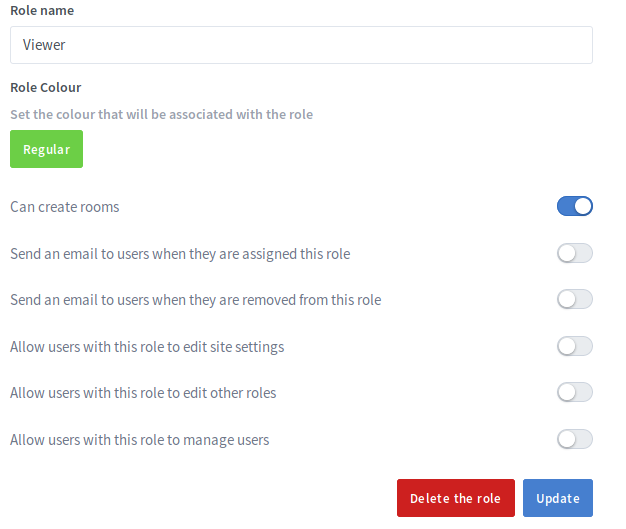
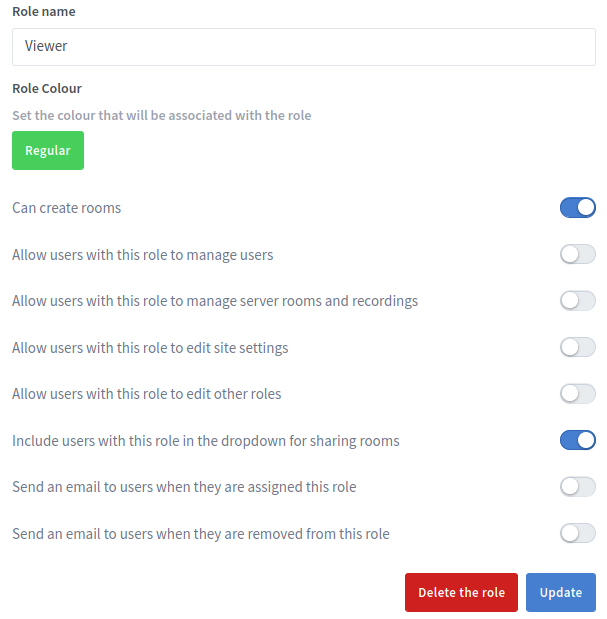
Greenlight v2.5 (#122)
* Greenlight v2.5

* Changed postgres change instructions

* Update docker-compose change instructions

* Updated install instructions

* Fixed psql url

* Updated role permissions

diff --git a/_posts/2019-04-15-gl-admin.md b/_posts/2019-04-15-gl-admin.md
@@ -102,6 +102,18 @@ Once an account gets banned, the user will be moved to the **Banned** tab.
 
 This will remove the account from Greenlight and will also prevent the user from signing up using the same email to Greenlight in the future.
 
+### Merging User Accounts
+
+In the case where 2 accounts need to be merged, there is a Merge action in the Account Dropdown. When merging 2 accounts together, there is a **Account to be Merged** and a **Primary Account**.
+
+During the merge process, the **Account to be Merged**'s rooms will be transferred to the **Primary Account**. Once the transfer is complete, the **Account to be Merged** will be permanently deleted. No other data is transferred to the **Primary Account**.
+
+To merge a user, click the Merge action in the Account Dropdown for the user that will be the **Primary Account**. Once the modal appears, you can use the dropdown to search for the **Account to be Merged**. Note that you can search by name or email in the dropdown. 
+
+![Greenlight Administrator Merge](/images/greenlight/admin_merge.png)
+
+In the above example, if Example3 had 2 rooms, "Home Room" and "Room 1", they will appear in Example4's room list as "(Merged) Home Room" and "(Merged) Room 1". Example4 is free to rename, delete or make any changes to these rooms.
+
 ### Editing Accounts
 
 To edit an account, select Edit for the specified user. This will open the edit user view.
@@ -125,6 +137,35 @@ From the edit user view, Administrators are able to assign and remove roles for 
 If the user has forgotten their password, the Administrator can send them an email that they can use to reset their password. 
 
 To reset a user's password, select Edit for the specified user. This will open the edit user view. From there, the Administrator just needs to click the `Reset user password` button and an email will be sent out to the user with the required instructions.
+
+## Server Rooms
+
+Through the Server Rooms tab, Administrators are able to view all of the Greenlight rooms that have been created.
+
+![Greenlight Administrator Server Rooms](/images/greenlight/admin_server_rooms.png)
+
+### Options
+
+As an administrator, there are a variety of options available to you with regards to interacting with a user's room. You can view all options by clicking the Room Dropdown. 
+
+| Tab               | Description |
+|:-----------------------|:------------|
+| View | Allows the administrator to join the room in the same way that anyother user joins the room. |
+| Start | Allows the administrator to manually start and join the room, even if it is not already running. |
+| Room Settings | Allows the administrator to make changes to the room settings. |
+| Delete | Allows the administrator to manually delete an unwanted room. **Home Rooms can not be deleted** |
+
+![Greenlight Administrator Server Rooms Options](/images/greenlight/admin_server_rooms_options.png)
+
+### Search
+
+The search box can be used to filter based on the **Name**, **Owner**, or **Id** of any room.
+
+### Sort 
+
+It is possible to sort rooms by metrics such as **Name**, **Owner**, or **Id**.
+
+This can be done by clicking on the headers of the table (cycles through ascending, descending, and no particular order):
 
 ## Server Recordings
 
@@ -225,6 +266,14 @@ By default, users that are not signed in can join any Room that has been started
 
 ![Greenlight Administrator Room Authentication](/images/greenlight/admin_room_auth.png)
 
+### Allow Users to Share Rooms
+
+By default, all users that are able to create rooms are able to share rooms. Shared rooms can be entirely disabled by setting this setting to **Disabled**.
+
+In the Shared Access modal, users can share the room with another user by searching for that user's name or uid. If you do not want a specific role to be searchable in this dropdown, you can hide them from the list in the [Roles Permissions](#editing-an-existing-role).
+
+![Greenlight Administrator Share Access](/images/greenlight/admin_share_access.png)
+
 ### Recording Default Visibility
 
 Sets the default visibility of room recordings. 
@@ -278,13 +327,14 @@ Administrators are also able to update the permissions for the role. The followi
 
 | Permission               | Description |
 |:-----------------------|:------------|
-| Can create rooms                                           | This determines whether or not users with this role are able to create their own Greenlight rooms. |
-| Send an email to users when they are assigned this role     | This determines whether or not to send an email to users when they are promoted to this role |
-| Send an email to users when they are removed from this role | This determines whether or not to send an email to users when they are removed from this role |
-| Allow users with this role to edit site settings           | This allows users to access the Server Recordings and Site Settings tabs as if they were administrators |
-| Allow users with this role to edit other roles             | This allows users to access the Roles tab as if they were administrators |
-| Allow users with this role to manage other users           | This allows users to access the Manage Users tab as if they were administrators |
-
+| Can create rooms                                                | This determines whether or not users with this role are able to create their own Greenlight rooms. |
+| Allow users with this role to manage other users                | This allows users to access the Manage Users tab as if they were administrators |
+| Allow users with this role to view server rooms and recordings  | This allows users to access the Site Setting tabs as if they were administrators |
+| Allow users with this role to edit site settings                | This allows users to access the Site Setting tabs as if they were administrators |
+| Allow users with this role to edit other roles                  | This allows users to access the Roles tab as if they were administrators |
+| Include users with this role in the dropdown for sharing rooms  | This includes the user in the dropdown for sharing rooms |
+| Send an email to users when they are assigned this role         | This determines whether or not to send an email to users when they are promoted to this role |
+| Send an email to users when they are removed from this role     | This determines whether or not to send an email to users when they are removed from this role |
 
 **Note:** Administrators are unable to change the name for the user role or any of the permissions associated with the Admin role. Administrators are also only able to edit the permissions for roles with a lower priority than their own role.
 

diff --git a/_posts/2019-04-15-gl-config.md b/_posts/2019-04-15-gl-config.md
@@ -27,6 +27,144 @@ If you are **not** deploying Greenlight on a BigBlueButton server and want the a
 
 You can now setup branding for Greenlight through its [Administrator Interface](gl-admin.html#site-branding). 
 
+## Use PostgreSQL instead of SQLite
+
+Greenlight can be set to use either a local in-memory SQLite database or a production-ready PostgreSQL database.
+
+For any new installs, Greenlight is configured to use PostgreSQL by default.
+
+If you installed Greenlight before v2.5 was released, your deployment is configured to use SQLite by default. If you are using SQLite, we highly recommend that you make the change to PostgreSQL.
+
+### Converting SQLite database to PostgreSQL without losing data
+
+It is possible to convert an existing SQLite database to PostgreSQL without losing any of your data.
+
+You'll need to generate a random password that will be used in 3 different instances. Generate one by running
+```bash
+openssl rand -hex 8
+```
+For the remainder of these instructions, replace **RANDOM_PASSWORD_REPLACE_ME** with the password that was generated with the command from above
+
+First, ensure you are in your Greenlight directory and that Greenlight is not running
+```bash
+cd ~/greenlight
+docker-compose down
+```
+
+Second, replace your `docker-compose.yml` with the new `docker-compose.yml` to include the PostgreSQL container 
+```bash
+docker run --rm bigbluebutton/greenlight:v2 cat ./docker-compose.yml > docker-compose.yml
+```
+
+Next, edit your `docker-compose.yml` to include your SQLite container (You can use vi, vim, nano or any text editor)
+```bash
+vim docker-compose.yml
+```
+
+There are 3 lines that need to be changed. When making the changes, make sure the spacing remains consistent.
+
+- The first change is removing the `#` before 
+```yaml
+#      - ./db/production:/usr/src/app/db/production
+```
+
+- The second change is replacing
+
+  ```yaml
+    - ./db/production:/var/lib/postgresql/data
+  ```
+
+  With
+
+  ```yaml
+    - ./db/production-postgres:/var/lib/postgresql/data
+  ```
+
+- The third change is replacing **RANDOM_PASSWORD_REPLACE_ME** with the password you generated in the earlier step
+
+
+**NOTE:** If you cloned the repository and are building your own image, make sure you also make the change to point to your image instead of the default one. If you are installed using the basic **Install** instructions, you can skip this step.
+```
+services:
+  app:
+    entrypoint: [bin/start]
+    image: <image name>:release-v2
+```
+
+The next step is configuring the `.env` file so that it connects to the PostgreSQL database. Edit your `.env` file
+```bash
+vim .env
+```
+and add the following lines to any part of the `.env` file (Making sure to replace the **RANDOM_PASSWORD_REPLACE_ME**)
+```
+DB_ADAPTER=postgresql
+DB_HOST=db
+DB_NAME=greenlight_production
+DB_USERNAME=postgres
+DB_PASSWORD=RANDOM_PASSWORD_REPLACE_ME
+```
+Next, test your current configuration by running
+```bash
+docker-compose up -d
+```
+If you see the following error, it is due to the spacing of your `docker-compose.yml` file. For reference, the spacing should look like [this](https://github.com/bigbluebutton/greenlight/blob/master/docker-compose.yml#L22) 
+```bash
+ERROR: yaml.parser.ParserError: while parsing a block mapping
+  in "./docker-compose.yml", line 4, column 3
+expected <block end>, but found '<block mapping start>'
+  in "./docker-compose.yml", line 23, column 4
+```
+If no errors appear, continue to the next step.
+Once the containers have spun up, we need to create a new database in PostgreSQL to store our data in  (Making sure to replace the **RANDOM_PASSWORD_REPLACE_ME**)
+``` bash
+docker exec greenlight-v2 psql "postgresql://postgres:RANDOM_PASSWORD_REPLACE_ME@db:5432" -c 'CREATE DATABASE greenlight_production_new'
+```
+Assuming that worked successfully, the console should output:
+```
+CREATE DATABASE
+```
+Finally, copy the SQLite database and convert it to a PostgreSQL database. (Making sure to replace the **RANDOM_PASSWORD_REPLACE_ME**)
+```bash
+docker exec greenlight-v2 bundle exec sequel -C sqlite:///usr/src/app/db/production/production.sqlite3 postgres://postgres:RANDOM_PASSWORD_REPLACE_ME@db:5432/greenlight_production_new
+```
+Assuming that worked successfully, the console should output:
+```
+Databases connections successful
+Migrations dumped successfully
+Tables created
+Begin copying data
+.
+.
+.
+Database copy finished in 2.741942643 seconds
+```
+
+Finally, edit your `.env` file to point at the new database by replacing the line that we added in the earlier step
+```
+DB_NAME=greenlight_production
+```
+With:
+```
+DB_NAME=greenlight_production_new
+```
+
+Now, [restart Greenlight](#applying-env-changes) and you should be good to go.
+
+You can verify that everything went smoothly if you are able to sign into the accounts you had made before starting this process.
+
+### Errors after migration
+
+If you encounter any errors after the migration, you can very easily switch back to your previous setup by removing the `.env` variables that were added during this switch. 
+
+Just remove these lines and restart Greenlight
+
+```
+DB_ADAPTER=postgresql
+DB_HOST=db
+DB_NAME=greenlight_production
+DB_USERNAME=postgres
+DB_PASSWORD=RANDOM_PASSWORD_REPLACE_ME
+```
 
 ## User Authentication
 

diff --git a/_posts/2019-04-15-gl-overview.md b/_posts/2019-04-15-gl-overview.md
@@ -125,6 +125,38 @@ Afterwards, clicking **Update Room** will save the changes.
 
 ![Greenlight Room Block Editing Mode](/images/greenlight/room_block_editing_mode.png)
 
+### Manage Access
+
+In the Room actions dropdown, there is a setting that allows users to share rooms. 
+
+![Greenlight Room Shared Access](/images/greenlight/room_shared_access.png)
+
+To share a room with another user, click on the dropdown and search for the user using either their **email** or their **uid**.
+
+![Greenlight Room Shared Modal](/images/greenlight/room_shared_access_modal.png)
+
+Once you click on a user to add, they will be added to the Shared With area in a pending state. No changes will be made unless the **Save Changes** button is clicked.
+
+![Greenlight Room Shared Pending](/images/greenlight/room_shared_pending.png)
+
+Users that the room has been shared with will appear in the following state:
+
+![Greenlight Room Shared Added](/images/greenlight/room_shared.png)
+
+You can unshare a room with a user by clicking the **x** icon. Again, no changes will be save until the **Save Changes** button is clicked.
+
+![Greenlight Room Shared Remove](/images/greenlight/room_shared_remove.png)
+
+Once a room is shared, the users that it is shared with will have access to that room in their Room List. They will be able to view/start the meeting and view the recordings. Note that only the room owner can edit/delete the room and the recordings.
+
+For the User that has the room shared with them, the room will now appear in their room list with a share icon and the name of the user that shared the room with them. 
+
+![Greenlight Room Shared](/images/greenlight/room_share.png)
+
+The User also has the option to remove an unwanted shared room from their room list.
+
+![Greenlight Room Remove Shared](/images/greenlight/room_remove_shared.png)
+
 ## Recordings
 
 ### Viewing Recordings

diff --git a/_posts/2019-04-15-gl-install.md b/_posts/2019-04-15-gl-install.md
@@ -134,7 +134,12 @@ Next, you should copy the `docker-compose.yml` file from the Greenlight image in
 docker run --rm bigbluebutton/greenlight:v2 cat ./docker-compose.yml > docker-compose.yml
 ```
 
-Once you have this file, from the `~/greenlight` directory, start the application using:
+Finally, randomly generate a password for the PostgreSQL databse and replace the entries in the `.env` and `.docker-compose.yml` file with this command
+```bash
+export pass=$(openssl rand -hex 8); sed -i 's/POSTGRES_PASSWORD=password/POSTGRES_PASSWORD='$pass'/g' docker-compose.yml;sed -i 's/DB_PASSWORD=password/DB_PASSWORD='$pass'/g' .env
+```
+
+Once you have completed these steps, from the `~/greenlight` directory, start the application using:
 
 ```bash
 docker-compose up -d
